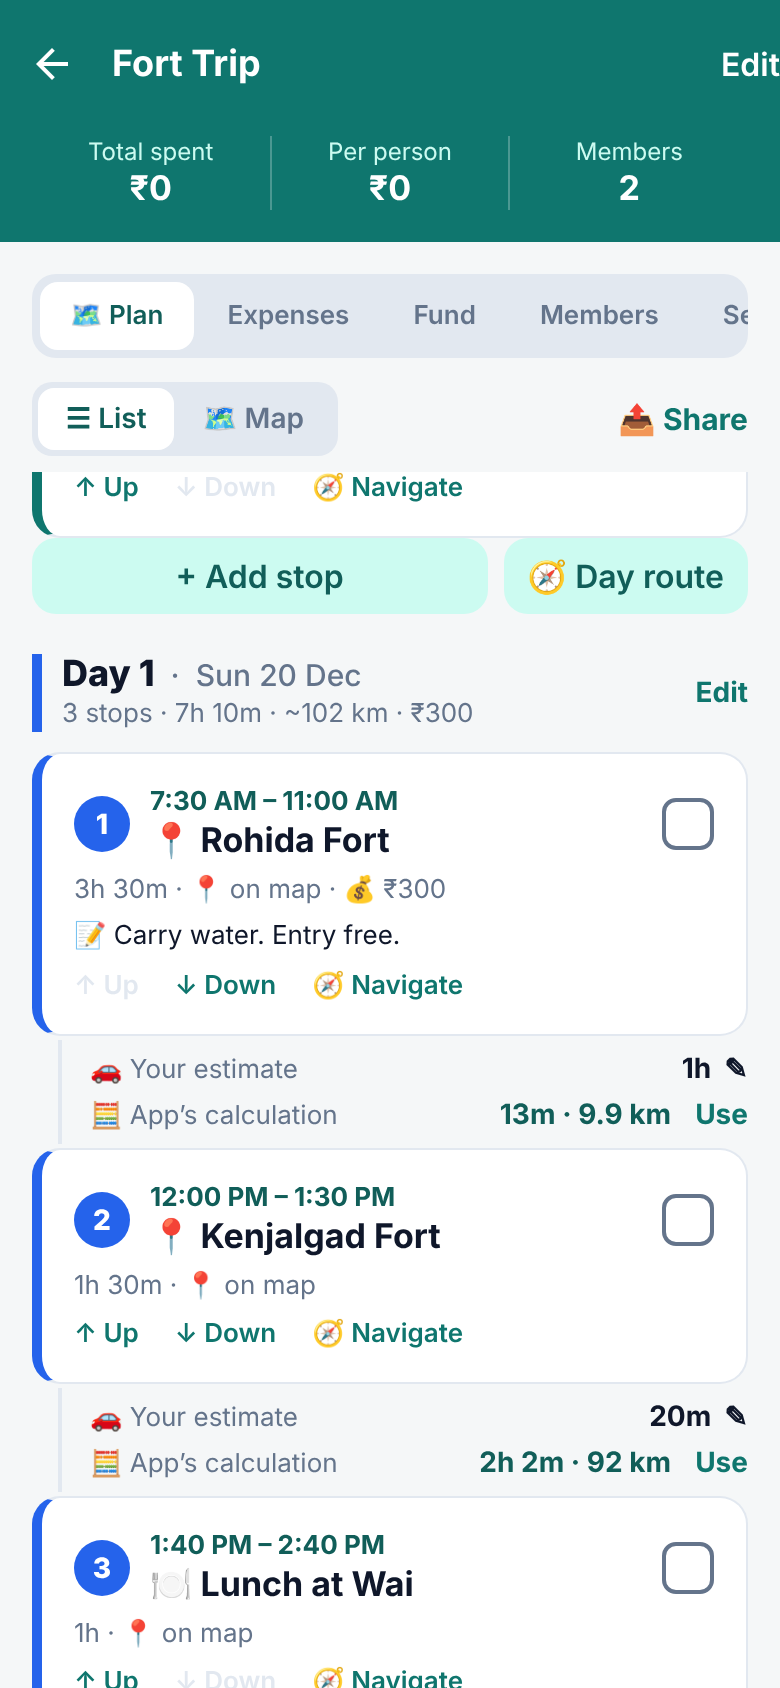
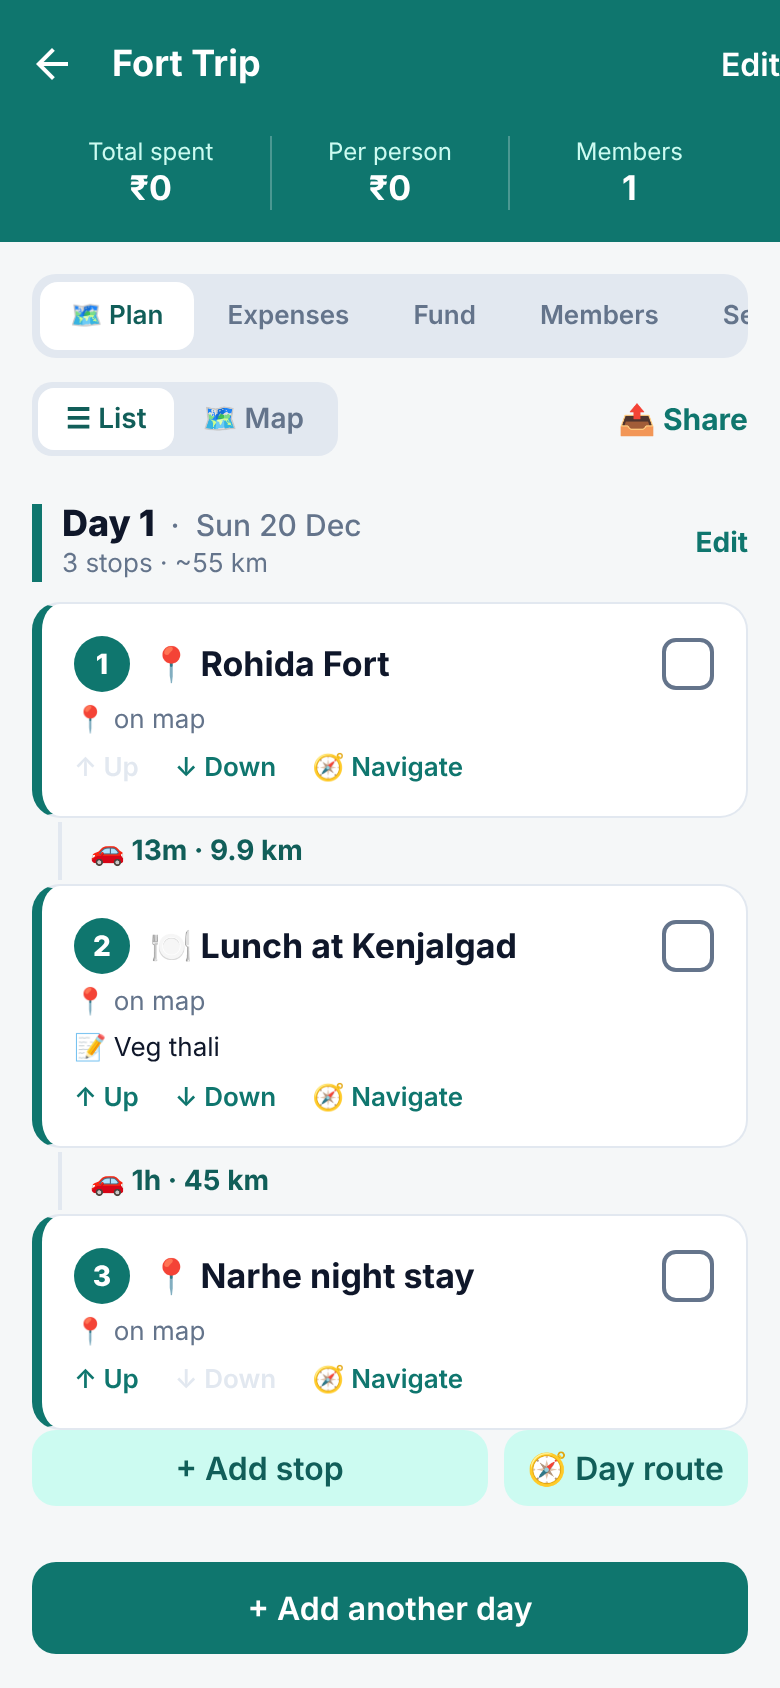
Simplify the trip plan: hide start time, stay length, budget and travel estimate
- New switch PLAN_TIMING (src/lib/features.ts), off for now; nothing is removed
- Stop form shows only type, name, location, day and notes (no start time,
  stay for, planned budget or your travel-time estimate)
- Plan list and map: stops in order with notes and the app's calculated
  distance and travel time between them (read-only); no times, durations,
  budgets, warnings or Now / Next; map pins without time labels
- Shared plan text lists stops in order without times or budgets
- Saved times, budgets and estimates are left untouched when editing; new
  stops get stored defaults in case the switch is turned on later
- Verified in a browser both ways (switch off: new test; switch on: the full
  earlier test); share-text test (57 unit tests); README updated

Claude-Session: https://claude.ai/code/session_012HRSiEGN2x4XeFG3eorYt9

diff --git a/src/screens/trip/PlanTab.tsx b/src/screens/trip/PlanTab.tsx
@@ -5,6 +5,7 @@ import type { MapLeg, MapLine, MapMarker } from '../../components/planMapTypes.t
 import { Button, Card, Chip, EmptyState, confirm, notify } from '../../components/ui.tsx';
 import { useBottomInset } from '../../components/useBottomInset.ts';
 import { calculateTravel } from '../../lib/geo.ts';
+import { PLAN_TIMING } from '../../lib/features.ts';
 import { todayISO } from '../../lib/id.ts';
 import { formatMoney } from '../../lib/money.ts';
 import {
@@ -126,7 +127,7 @@ export default function PlanTab({
 
   // ---- sharing ----
   const sharePlan = async () => {
-    const text = buildPlanShareText(trip);
+    const text = buildPlanShareText(trip, { timing: PLAN_TIMING });
     try {
       await Share.share({ message: text, title: `${trip.name} plan` });
     } catch {
@@ -171,11 +172,11 @@ export default function PlanTab({
         unlocated++;
         return;
       }
-      markers.push({ id: s.id, lat: s.lat, lng: s.lng, label: String(i + 1), sub: formatTime(s.startMin), color });
+      markers.push({ id: s.id, lat: s.lat, lng: s.lng, label: String(i + 1), sub: PLAN_TIMING ? formatTime(s.startMin) : undefined, color });
       const before = stops[i - 1];
       if (before && hasLocation(before)) {
         lines.push({ coords: [[before.lat, before.lng], [s.lat, s.lng]], color });
-        const own = s.travelUserMin;
+        const own = PLAN_TIMING ? s.travelUserMin : undefined;
         const sug = s.suggestion && isSuggestionCurrent(s, before) ? s.suggestion : undefined;
         const text = own !== undefined ? formatDuration(own) : sug ? `${sug.source === 'estimate' ? '~' : ''}${formatDuration(sug.min)}` : '';
         if (text) legs.push({ lat: (before.lat + s.lat) / 2, lng: (before.lng + s.lng) / 2, text: `🚗 ${text}`, color });
@@ -268,12 +269,18 @@ export default function PlanTab({
                 <Text style={styles.close}>✕</Text>
               </Pressable>
             </View>
-            <Text style={styles.sheetTime}>🕐 {formatRange(selected)}</Text>
+            {PLAN_TIMING ? <Text style={styles.sheetTime}>🕐 {formatRange(selected)}</Text> : null}
             {selected.address ? <Text style={styles.muted} numberOfLines={2}>{selected.address}</Text> : null}
-            {selected.travelUserMin !== undefined || selected.suggestion ? (
+            {PLAN_TIMING && (selected.travelUserMin !== undefined || selected.suggestion) ? (
               <Text style={styles.muted}>
                 🚗 To get here: {selected.travelUserMin !== undefined ? `your estimate ${formatDuration(selected.travelUserMin)}` : 'no estimate from you'}
                 {selected.suggestion ? ` · app ${selected.suggestion.source === 'estimate' ? '~' : ''}${formatDuration(selected.suggestion.min)} (${selected.suggestion.km.toFixed(0)} km)` : ''}
+              </Text>
+            ) : null}
+            {!PLAN_TIMING && selected.suggestion ? (
+              <Text style={styles.muted}>
+                🚗 From the previous stop: {selected.suggestion.source === 'estimate' ? '~' : ''}
+                {formatDuration(selected.suggestion.min)} · {selected.suggestion.km.toFixed(0)} km
               </Text>
             ) : null}
             <View style={styles.row}>
@@ -292,7 +299,7 @@ export default function PlanTab({
     <View style={{ flex: 1 }}>
       {toolbar}
       <ScrollView contentContainerStyle={[styles.content, { paddingBottom: 40 + bottomInset }]} keyboardShouldPersistTaps="handled">
-        {nowNext && (nowNext.now || nowNext.next || dayFinished) ? (
+        {PLAN_TIMING && nowNext && (nowNext.now || nowNext.next || dayFinished) ? (
           <View style={styles.nowCard}>
             {nowNext.now ? (
               <Text style={styles.nowText}>
@@ -308,7 +315,7 @@ export default function PlanTab({
           </View>
         ) : null}
 
-        {planned > 0 ? (
+        {PLAN_TIMING && planned > 0 ? (
           <Card style={styles.budget}>
             <View style={{ flex: 1 }}>
               <Text style={styles.budgetLabel}>Planned budget</Text>
@@ -324,7 +331,7 @@ export default function PlanTab({
         {days.map((day, di) => {
           const stops = dayStops(trip.planStops, day.id);
           const stats = computeDayStats(stops);
-          const warnings = computeWarnings(stops);
+          const warnings = PLAN_TIMING ? computeWarnings(stops) : [];
           const routeUrl = dayRouteUrl(stops);
           const color = dayColor(di);
           const date = formatDayDate(day.date);
@@ -338,9 +345,10 @@ export default function PlanTab({
                   </Text>
                   {stats.count > 0 ? (
                     <Text style={styles.muted}>
-                      {stats.count} stop{stats.count === 1 ? '' : 's'} · {formatDuration(stats.spanMin)}
+                      {stats.count} stop{stats.count === 1 ? '' : 's'}
+                      {PLAN_TIMING ? ` · ${formatDuration(stats.spanMin)}` : ''}
                       {stats.km > 0 ? ` · ~${Math.round(stats.km)} km` : ''}
-                      {stats.budget > 0 ? ` · ${fmt(stats.budget)}` : ''}
+                      {PLAN_TIMING && stats.budget > 0 ? ` · ${fmt(stats.budget)}` : ''}
                     </Text>
                   ) : (
                     <Text style={styles.muted}>Nothing planned yet</Text>
@@ -456,7 +464,7 @@ function StopCard({
               <Text style={styles.numText}>{number}</Text>
             </View>
             <View style={{ flex: 1 }}>
-              <Text style={styles.stopTime}>{formatRange(stop)}</Text>
+              {PLAN_TIMING ? <Text style={styles.stopTime}>{formatRange(stop)}</Text> : null}
               <Text style={[styles.stopName, stop.done && styles.strike]} numberOfLines={2}>
                 {meta.icon} {stop.name}
               </Text>
@@ -474,9 +482,9 @@ function StopCard({
             </Pressable>
           </View>
           <Text style={styles.stopMeta} numberOfLines={2}>
-            {formatDuration(stop.durationMin)}
-            {located ? ' · 📍 on map' : ' · no location'}
-            {stop.budget ? ` · 💰 ${formatMoney(stop.budget, currency)}` : ''}
+            {PLAN_TIMING ? `${formatDuration(stop.durationMin)} · ` : ''}
+            {located ? '📍 on map' : 'No location yet'}
+            {PLAN_TIMING && stop.budget ? ` · 💰 ${formatMoney(stop.budget, currency)}` : ''}
           </Text>
           {stop.notes ? (
             <Text style={styles.stopNotes} numberOfLines={2}>
@@ -525,6 +533,22 @@ function TravelLeg({
   const suggestion = stop.suggestion && isSuggestionCurrent(stop, prev) ? stop.suggestion : undefined;
   const both = hasLocation(prev) && hasLocation(stop);
   const same = suggestion && stop.travelUserMin === suggestion.min;
+  if (!PLAN_TIMING) {
+    // Just the app's calculation, for information. No input.
+    if (!suggestion && !both) return null;
+    return (
+      <View style={styles.leg}>
+        <View style={styles.legLine} />
+        <View style={styles.legBody}>
+          <Text style={suggestion ? styles.legSuggest : styles.muted}>
+            {suggestion
+              ? `🚗 ${suggestion.source === 'estimate' ? '~' : ''}${formatDuration(suggestion.min)} · ${suggestion.km.toFixed(suggestion.km < 10 ? 1 : 0)} km`
+              : '🚗 calculating…'}
+          </Text>
+        </View>
+      </View>
+    );
+  }
   return (
     <View style={styles.leg}>
       <View style={styles.legLine} />

diff --git a/src/screens/StopFormScreen.tsx b/src/screens/StopFormScreen.tsx
@@ -6,6 +6,7 @@ import { Button, Card, Chip, EmptyState, Field, confirm } from '../components/ui
 import { useBottomInset } from '../components/useBottomInset.ts';
 import type { MapMarker } from '../components/planMapTypes.ts';
 import { useTravelSuggestion } from '../hooks/useTravelSuggestion.ts';
+import { PLAN_TIMING } from '../lib/features.ts';
 import { resolveMapText, searchPlaces } from '../lib/geo.ts';
 import type { PlaceResult } from '../lib/geo.ts';
 import { currencySymbol, minorToInput, parseAmount } from '../lib/money.ts';
@@ -126,9 +127,9 @@ export default function StopFormScreen({ navigation, route }: ScreenProps<'StopF
   const budget = budgetText.trim() ? parseAmount(budgetText, { allowZero: true }) : undefined;
   const errors = {
     name: name.trim() ? undefined : 'What is this stop called?',
-    duration: durationMin !== null && durationMin > 0 ? undefined : 'Enter how long you will stay, like 1h 30m',
-    travel: travelInvalid ? 'Enter a time like 1h 15m or 45' : undefined,
-    budget: budget === null ? 'Enter a valid amount' : undefined,
+    duration: !PLAN_TIMING || (durationMin !== null && durationMin > 0) ? undefined : 'Enter how long you will stay, like 1h 30m',
+    travel: PLAN_TIMING && travelInvalid ? 'Enter a time like 1h 15m or 45' : undefined,
+    budget: PLAN_TIMING && budget === null ? 'Enter a valid amount' : undefined,
   };
   const hasErrors = Object.values(errors).some(Boolean);
   const show = (key: keyof typeof errors) => (submitted ? errors[key] : undefined);
@@ -161,24 +162,37 @@ export default function StopFormScreen({ navigation, route }: ScreenProps<'StopF
 
   const save = () => {
     setSubmitted(true);
-    if (hasErrors || durationMin === null) return;
+    if (hasErrors) return;
     const common = {
       type,
       name: name.trim(),
       address: location?.address,
       lat: location?.lat,
       lng: location?.lng,
-      startMin,
-      durationMin,
       notes: notes.trim() || undefined,
-      budget: budget ?? undefined,
     };
+    // With timing switched off, times, stay length, budget and your estimate are left exactly as they are.
+    const timing = PLAN_TIMING && durationMin !== null ? { startMin, durationMin, budget: budget ?? undefined } : null;
     if (existing) {
       if (dayId !== existing.dayId) moveStopToDay(trip.id, existing.id, dayId);
-      updateStop(trip.id, existing.id, { ...common, travelUserMin: travelUserMin ?? null }, shift && laterCount > 0 && dayId === existing.dayId);
+      updateStop(
+        trip.id,
+        existing.id,
+        timing ? { ...common, ...timing, travelUserMin: travelUserMin ?? null } : common,
+        !!timing && shift && laterCount > 0 && dayId === existing.dayId,
+      );
       if (suggestion) setStopSuggestion(trip.id, existing.id, suggestion);
     } else {
-      addStop(trip.id, { ...common, dayId, travelUserMin: travelUserMin ?? undefined, suggestion: suggestion ?? undefined });
+      addStop(trip.id, {
+        ...common,
+        dayId,
+        // Sensible values, kept in case timing is switched on later.
+        startMin: timing?.startMin ?? defaultNextStartMin(prev, suggestion?.min ?? 0),
+        durationMin: timing?.durationMin ?? STOP_TYPES[type].defaultDurationMin,
+        budget: timing?.budget,
+        travelUserMin: PLAN_TIMING ? (travelUserMin ?? undefined) : undefined,
+        suggestion: suggestion ?? undefined,
+      });
     }
     navigation.goBack();
   };
@@ -342,7 +356,7 @@ export default function StopFormScreen({ navigation, route }: ScreenProps<'StopF
         ) : null}
 
         {/* Travel from the previous stop: your estimate and the app's calculation, side by side but separate */}
-        {prev ? (
+        {PLAN_TIMING && prev ? (
           <>
             <Text style={styles.label}>Travel from “{prev.name}”</Text>
             <Card style={{ gap: 12, marginBottom: 16 }}>
@@ -389,6 +403,8 @@ export default function StopFormScreen({ navigation, route }: ScreenProps<'StopF
           </>
         ) : null}
 
+        {PLAN_TIMING ? (
+          <>
         {/* Times */}
         <View style={styles.row2}>
           <TimeField
@@ -460,6 +476,8 @@ export default function StopFormScreen({ navigation, route }: ScreenProps<'StopF
           keyboardType="decimal-pad"
           error={show('budget')}
         />
+          </>
+        ) : null}
         <Field
           label="Notes (optional)"
           placeholder="Tickets, booking details, things to remember…"
@@ -469,7 +487,7 @@ export default function StopFormScreen({ navigation, route }: ScreenProps<'StopF
           style={{ minHeight: 80, textAlignVertical: 'top' }}
         />
 
-        {existing && laterCount > 0 && dayId === existing.dayId ? (
+        {PLAN_TIMING && existing && laterCount > 0 && dayId === existing.dayId ? (
           <View style={styles.switchRow}>
             <View style={{ flex: 1 }}>
               <Text style={styles.switchLabel}>Move later stops too</Text>

diff --git a/src/lib/plan.ts b/src/lib/plan.ts
@@ -398,7 +398,8 @@ export function addDaysISO(date: string, days: number): string {
 }
 
 /** Plain-text plan for WhatsApp: every day with times, legs and a Google Maps route link. */
-export function buildPlanShareText(trip: Trip): string {
+export function buildPlanShareText(trip: Trip, options: { timing?: boolean } = {}): string {
+  const timing = options.timing ?? true;
   const lines: string[] = [`🗺 *${trip.name} — Trip plan*`];
   const where = [trip.destination].filter(Boolean).join(' · ');
   if (where) lines.push(`📍 ${where}`);
@@ -412,21 +413,23 @@ export function buildPlanShareText(trip: Trip): string {
     }
     stops.forEach((s, i) => {
       if (i > 0) {
-        const travel = s.travelUserMin ?? s.suggestion?.min;
+        // Without timing, only the app's own calculation is shown (your estimate is not asked for).
+        const own = timing ? s.travelUserMin : undefined;
+        const travel = own ?? s.suggestion?.min;
         if (travel !== undefined) {
           const km = s.suggestion?.km ? ` · ~${Math.round(s.suggestion.km)} km` : '';
-          lines.push(`      🚗 ${s.travelUserMin !== undefined ? '' : '~'}${formatDuration(travel)}${km}`);
+          lines.push(`      🚗 ${own !== undefined ? '' : '~'}${formatDuration(travel)}${km}`);
         }
       }
-      lines.push(`${formatRange(s)}  ${STOP_TYPES[s.type].icon} ${s.name}`);
+      lines.push(timing ? `${formatRange(s)}  ${STOP_TYPES[s.type].icon} ${s.name}` : `${i + 1}. ${STOP_TYPES[s.type].icon} ${s.name}`);
       if (s.notes) lines.push(`      📝 ${s.notes.split('\n')[0]}`);
-      if (s.budget) lines.push(`      💰 ${formatMoney(s.budget, trip.currency)}`);
+      if (timing && s.budget) lines.push(`      💰 ${formatMoney(s.budget, trip.currency)}`);
     });
     const url = dayRouteUrl(stops);
     if (url) lines.push(`🧭 Route: ${url}`);
   }
   const total = plannedBudget(trip.planStops);
-  if (total > 0) lines.push('', `💰 Planned budget: ${formatMoney(total, trip.currency)}`);
+  if (timing && total > 0) lines.push('', `💰 Planned budget: ${formatMoney(total, trip.currency)}`);
   lines.push('', 'Shared via Kontri');
   return lines.join('\n');
 }

diff --git a/src/lib/plan.test.ts b/src/lib/plan.test.ts
@@ -254,3 +254,25 @@ test('next day label and date keep a Day 0 and follow the trip start', () => {
   assert.equal(nextDayDate([d('Day 1', '2026-12-20')], '2026-12-20'), '2026-12-21');
   assert.equal(nextDayDate([d('Day 1')], '2026-12-20'), undefined);
 });
+
+test('share text without timing keeps the order, notes and the app calculation, but no times or budgets', () => {
+  const trip = {
+    name: 'Fort Trip',
+    currency: 'INR',
+    planDays: [{ id: 'd1', label: 'Day 1', date: '2026-12-20' }],
+    planStops: [
+      stop({ id: '1', name: 'Rohida', startMin: 450, durationMin: 210, lat: 18.3, lng: 73.6, budget: 30000 }),
+      stop({
+        id: '2', name: 'Lunch @ Kenjalgad', type: 'meal', startMin: 810, durationMin: 90, lat: 18.4, lng: 73.7,
+        travelUserMin: 20, suggestion: { min: 62, km: 28.4, source: 'road', key: 'k' }, notes: 'Veg thali', budget: 60000,
+      }),
+    ],
+  } as unknown as Trip;
+  const text = buildPlanShareText(trip, { timing: false });
+  assert.match(text, /1\. 📍 Rohida/);
+  assert.match(text, /2\. 🍽 Lunch @ Kenjalgad/);
+  assert.match(text, /🚗 ~1h 2m · ~28 km/); // the app's number, not your hidden estimate of 20m
+  assert.match(text, /📝 Veg thali/);
+  assert.match(text, /Route: https:\/\/www\.google\.com\/maps\/dir\//);
+  assert.doesNotMatch(text, /AM|PM|💰|budget/i);
+});

diff --git a/src/lib/features.ts b/src/lib/features.ts
@@ -1,0 +1,10 @@
+/**
+ * Trip plan timing: start times, stay lengths, planned budgets, your own travel-time estimates,
+ * "not enough time" warnings and Now / Next.
+ *
+ * Switched off for now, to keep the planner simple: a stop is just a place in an ordered list
+ * (with notes, a location on the map, and the app's calculated distance and travel time).
+ * Nothing was removed: the screens, saved data and logic are all still there.
+ * Set this to true to bring all of it back.
+ */
+export const PLAN_TIMING = false as boolean;

diff --git a/README.md b/README.md
@@ -51,13 +51,15 @@ your WhatsApp group as a clean bill.
 | 💰 | **Advance fund (kitty)** | Record money collected in advance ("everyone gives ₹2,000"), choose who holds the cash, and pay expenses from the fund; leftover cash is returned in the settlement |
 | ✅ | **Settle up** | Each member's share, who owes and who gets back, and the **fewest payments** needed to settle |
 | 📲 | **WhatsApp bill** | Share the settlement as a receipt-style bill: expenses, totals, shares and amounts due, grouped by who receives the money |
-| 🗺 | **Trip plan** | Plan the whole trip day by day: places to visit with start time and stay length, plus meals, shopping, fuel stops and overnight stays. Add a place by search, by dropping a pin on the map, or by pasting a Google Maps link |
-| 🚗 | **Travel times** | Between stops, type **your own estimate** and see the **app's calculation** (road time and distance) next to it, kept separate. A warning appears if there isn't enough time, with a one-tap "Fix timing" |
-| 📍 | **Map view** | All the stops on a map, numbered and coloured by day, each with its visit time and the travel time between stops. Tap a pin for details, navigation in Google Maps, or to add it as an expense |
-| 🧭 | **On the trip** | "Now / Next" for today's plan, tick stops as done, planned budget against what you have spent, and share the whole plan on WhatsApp with a route link for each day |
+| 🗺 | **Trip plan** | Plan the whole trip day by day: the places you will visit, in order, plus meals, shopping, fuel stops and overnight stays, each with notes. Add a place by search, by dropping a pin on the map, or by pasting a Google Maps link |
+| 🚗 | **Travel times** | The app calculates the road distance and driving time between consecutive stops and shows it in the list and on the map (a rough straight-line guess when offline) |
+| 📍 | **Map view** | All the stops on a map, numbered and coloured by day, joined by route lines. Tap a pin for details, navigation in Google Maps, or to add it as an expense |
+| 🧭 | **On the trip** | Tick stops as done, open any stop or the whole day's route in Google Maps, and share the plan on WhatsApp |
 | 📝 | **Notes & checklists** | As many notes as you like per trip (booking details, phone numbers, packing list), with checklists you tick off and an option to pin important notes |
 | 📷 | **Photos** | Take photos or pick from your gallery, add captions, view full screen, and choose a cover photo that shows on the trips list. Photos are shrunk and stay on your phone |
 | 📴 | **Offline & private** | Everything stays on your phone. No login, no internet needed, no data sent anywhere |
+
+> **Planning details switched off for now:** start times, stay lengths, planned budgets, your own travel-time estimates, "not enough time" warnings and Now / Next are built but hidden to keep the planner simple. Turn them back on with `PLAN_TIMING` in `src/lib/features.ts`.
 
 ## How it works
 
@@ -161,6 +163,7 @@ src/
 │   ├── settlement.ts         Balances, fund handling, fewest-payments algorithm
 │   ├── split.ts              Equal and custom per-expense splits
 │   ├── plan.ts               Trip plan logic: times, travel, warnings, links, sharing
+│   ├── features.ts           Feature switch for the plan's timing details (PLAN_TIMING)
 │   ├── geo.ts                Place search, travel time and pin-name lookups
 │   ├── notes.ts              Note sorting and checklist helpers
 │   ├── photos.ts             Photo shrinking and on-device storage
